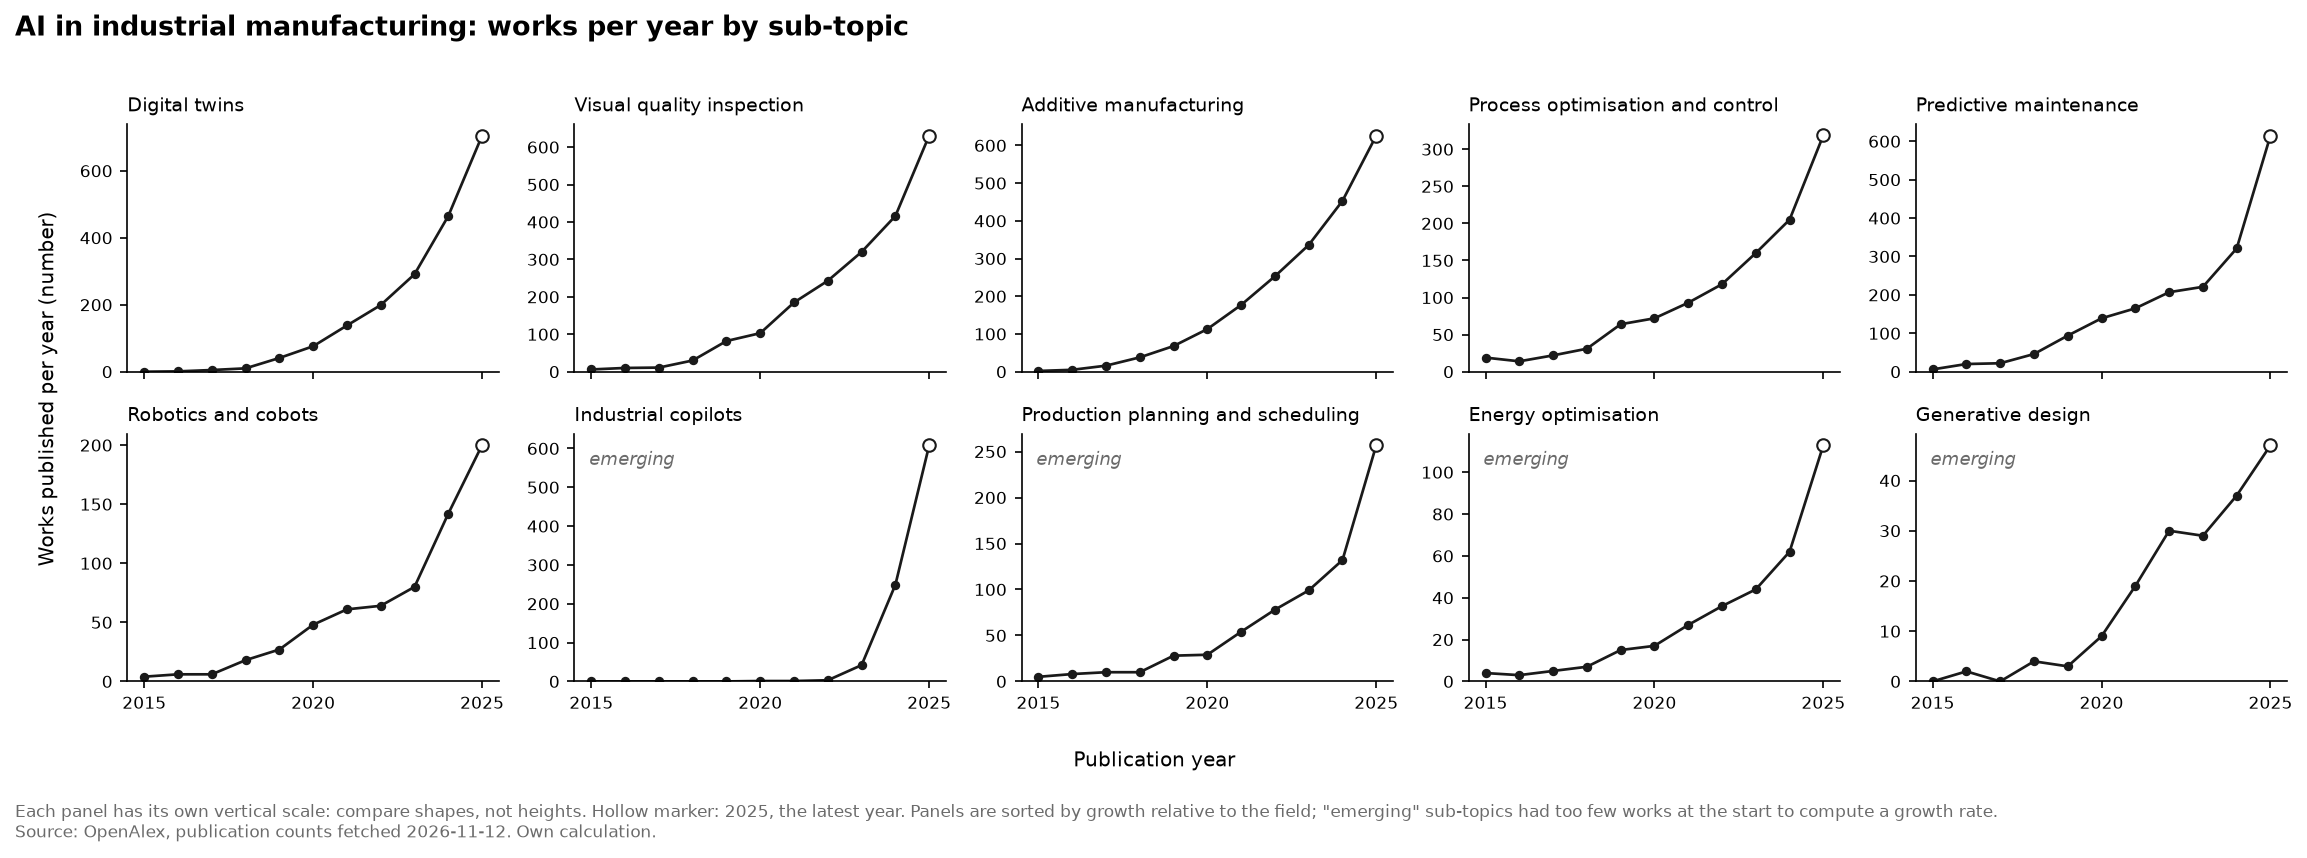
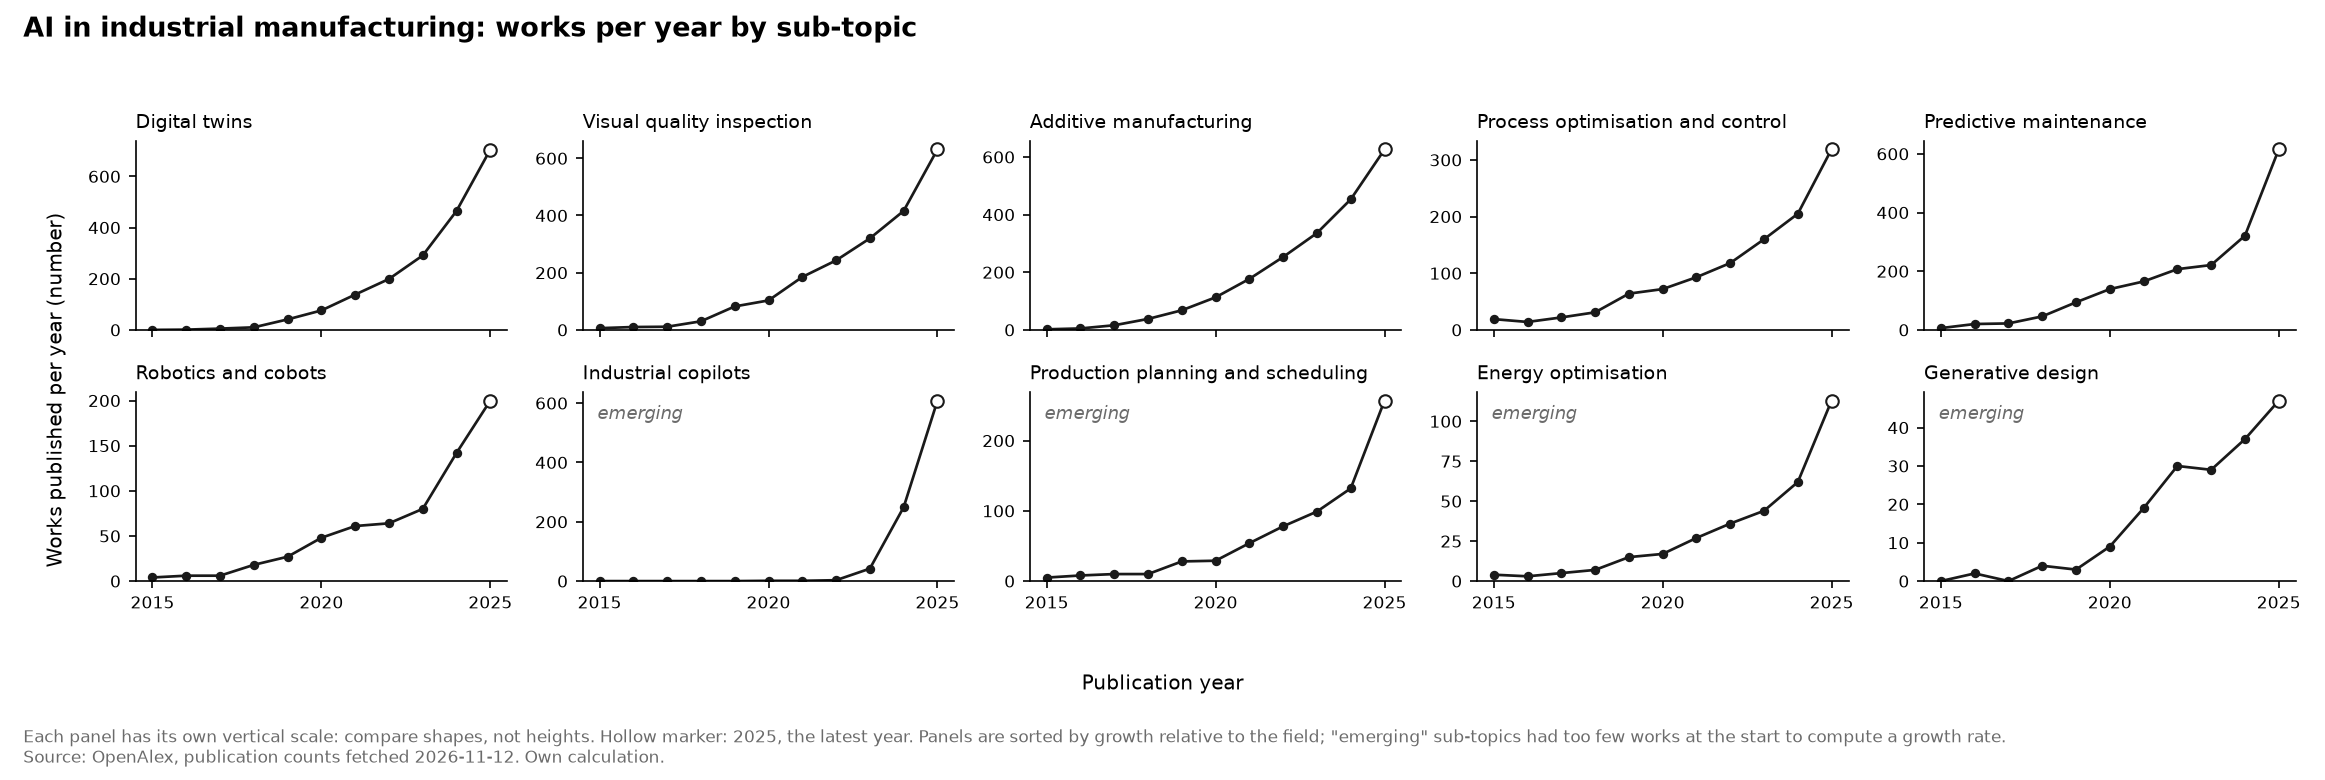
Save charts by picture, not by file bytes, and use a fixed canvas
The Windows check failed because the chart files drawn there differ as
files from the ones committed from Linux, while tests and the data file
were identical. A chart file is now replaced only if its picture differs
pixel for pixel from the one already stored, so a different image
compression on another machine no longer changes it. Charts are drawn on
a fixed canvas instead of a cropped one, which removes one source of
size differences.

Add a diagnostic step to the workflow that, after a failure, reports how
far a redrawn chart is from the committed one.

Claude-Session: https://claude.ai/code/session_01X3jSLn1XnGxpfZmKjiJEVU

diff --git a/pipelines/figures.py b/pipelines/figures.py
@@ -7,6 +7,7 @@ Chart rules for this project (requirement G-5): a title, labelled axes with
 units, a source note, and never colour alone to tell series apart.
 """
 
+import io
 from pathlib import Path
 
 import matplotlib
@@ -20,6 +21,7 @@ matplotlib.rcdefaults()
 matplotlib.rcParams["font.family"] = "DejaVu Sans"
 
 import matplotlib.pyplot as plt  # noqa: E402  (must come after the line above)
+from matplotlib import image  # noqa: E402
 import matplotlib.ticker as ticker  # noqa: E402
 import pandas as pd  # noqa: E402
 from matplotlib.figure import Figure  # noqa: E402
@@ -28,16 +30,37 @@ from matplotlib.transforms import Bbox  # noqa: E402
 from pipelines.paths import FIGURES_DIR  # noqa: E402
 
 
+def same_picture(first_png: bytes, second_png: bytes) -> bool:
+    """True if two PNG files show exactly the same picture, pixel for pixel.
+
+    Two files can hold the identical picture and still differ as files,
+    because computers compress images in slightly different ways.
+    """
+    first = image.imread(io.BytesIO(first_png))
+    second = image.imread(io.BytesIO(second_png))
+    return first.shape == second.shape and bool((first == second).all())
+
+
 def save_figure(figure: Figure, name: str, figures_dir: Path = FIGURES_DIR) -> Path:
     """Save a chart as PNG and return its path.
+
+    The chart is drawn at a fixed size and resolution. If a file with the
+    same picture already exists, it is left untouched. So a chart file only
+    changes when the picture changes, and not because a different computer
+    compressed it differently.
 
     The "Software" entry normally stores the matplotlib version inside the
     file. It is removed so the file does not change between versions.
     """
     figures_dir.mkdir(parents=True, exist_ok=True)
     path = figures_dir / f"{name}.png"
-    figure.savefig(path, dpi=150, bbox_inches="tight", metadata={"Software": None})
+
+    drawn = io.BytesIO()
+    figure.savefig(drawn, format="png", dpi=150, metadata={"Software": None})
     plt.close(figure)
+
+    if not (path.exists() and same_picture(path.read_bytes(), drawn.getvalue())):
+        path.write_bytes(drawn.getvalue())
     return path
 
 
@@ -99,16 +122,17 @@ def plot_time_series(counts: pd.DataFrame, results: pd.DataFrame, trends_config:
         x=0.01, ha="left", fontsize=13, fontweight="bold",
     )
     figure.supylabel("Works published per year (number)", fontsize=9.5)
-    figure.supxlabel("Publication year", fontsize=9.5)
+    figure.supxlabel("Publication year", fontsize=9.5, y=0.11)
     figure.text(
-        0.01, -0.03,
+        0.01, 0.015,
         "Each panel has its own vertical scale: compare shapes, not heights. "
         f"Hollow marker: {last_year}, the latest year. Panels are sorted by growth relative to the field; "
         "\"emerging\" sub-topics had too few works at the start to compute a growth rate.\n"
         + source_note(trends_config, fetch_date),
-        fontsize=8, color=MUTED, ha="left", va="top",
+        fontsize=8, color=MUTED, ha="left", va="bottom",
     )
-    figure.tight_layout(rect=(0.01, 0, 1, 0.97))
+    # Leave room for the title above and the note below the panels.
+    figure.tight_layout(rect=(0.01, 0.13, 1, 0.95))
     return figure
 
 
@@ -169,8 +193,8 @@ def plot_trend_map(results: pd.DataFrame, trends_config: dict, fetch_date: str) 
     rated = results[~results["emerging"]]
     emerging = results[results["emerging"]]
 
-    figure, axes = plt.subplots(figsize=(11, 6.2))
-    figure.subplots_adjust(left=0.08, right=0.70, top=0.86, bottom=0.20)
+    figure, axes = plt.subplots(figsize=(12.5, 6.4))
+    figure.subplots_adjust(left=0.07, right=0.64, top=0.88, bottom=0.21)
 
     axes.set_xscale("log")
     if len(rated) > 0:
@@ -227,7 +251,7 @@ def plot_trend_map(results: pd.DataFrame, trends_config: dict, fetch_date: str) 
     if len(emerging) == 0:
         lines.append("none")
     figure.text(
-        0.72, 0.84, "\n".join(lines), fontsize=9, color=INK, va="top", ha="left", linespacing=1.5,
+        0.67, 0.86, "\n".join(lines), fontsize=9, color=INK, va="top", ha="left", linespacing=1.5,
         bbox=dict(boxstyle="round,pad=0.6", facecolor="white", edgecolor=MUTED),
     )
 

diff --git a/tests/test_figures.py b/tests/test_figures.py
@@ -1,7 +1,10 @@
 """Tests for pipelines/figures.py."""
 
+import io
+
 import matplotlib.pyplot as plt
 import pandas as pd
+from PIL import Image
 
 from pipelines import figures, transform
 from pipelines.figures import save_figure
@@ -18,6 +21,37 @@ def test_saving_the_same_chart_twice_gives_identical_files(tmp_path):
     first = save_figure(simple_chart(), "example", tmp_path).read_bytes()
     second = save_figure(simple_chart(), "example", tmp_path).read_bytes()
     assert first == second
+
+
+def recompressed(png: bytes) -> bytes:
+    """The same picture, stored with a different compression setting."""
+    picture = Image.open(io.BytesIO(png))
+    stored = io.BytesIO()
+    picture.save(stored, format="png", compress_level=1)
+    return stored.getvalue()
+
+
+def test_a_file_with_the_same_picture_is_left_untouched(tmp_path):
+    # This is the situation on another computer: the chart file in the
+    # repository shows the same picture but was compressed differently.
+    path = save_figure(simple_chart(), "example", tmp_path)
+    other_computer = recompressed(path.read_bytes())
+    assert other_computer != path.read_bytes()
+    path.write_bytes(other_computer)
+
+    save_figure(simple_chart(), "example", tmp_path)
+    assert path.read_bytes() == other_computer
+
+
+def test_a_changed_picture_replaces_the_file(tmp_path):
+    path = save_figure(simple_chart(), "example", tmp_path)
+    before = path.read_bytes()
+
+    changed, axes = plt.subplots()
+    axes.plot([2023, 2024, 2025], [10, 20, 41])  # one value differs
+    axes.set_title("Example")
+    save_figure(changed, "example", tmp_path)
+    assert path.read_bytes() != before
 
 
 # --- the two trend scan charts ----------------------------------------------

diff --git a/tools/compare_charts.py b/tools/compare_charts.py
@@ -1,0 +1,44 @@
+"""Compare each chart in the working folder with the version in the last commit.
+
+Used by the automatic checks to explain a failure: when the pipeline has
+redrawn a chart, this prints how much the two pictures differ.
+
+    python tools/compare_charts.py
+"""
+
+import io
+import subprocess
+import sys
+from pathlib import Path
+
+from matplotlib import image
+
+FIGURES = Path("outputs/figures")
+
+
+def main() -> int:
+    for path in sorted(FIGURES.glob("*.png")):
+        committed = subprocess.run(
+            ["git", "show", f"HEAD:{path.as_posix()}"], capture_output=True, check=False
+        ).stdout
+        if not committed:
+            print(f"{path.name}: not in the last commit")
+            continue
+        old = image.imread(io.BytesIO(committed))
+        new = image.imread(path)
+        if old.shape != new.shape:
+            print(f"{path.name}: size differs, committed {old.shape}, drawn here {new.shape}")
+            continue
+        difference = abs(old.astype(float) - new.astype(float))
+        changed = (difference.max(axis=2) > 0).sum()
+        total = difference.shape[0] * difference.shape[1]
+        print(
+            f"{path.name}: {changed} of {total} pixels differ ({changed / total:.4%}); "
+            f"largest difference {difference.max() * 255:.0f} of 255; "
+            f"pixels differing by more than 16: {(difference.max(axis=2) > 16 / 255).sum()}"
+        )
+    return 0
+
+
+if __name__ == "__main__":
+    sys.exit(main())
